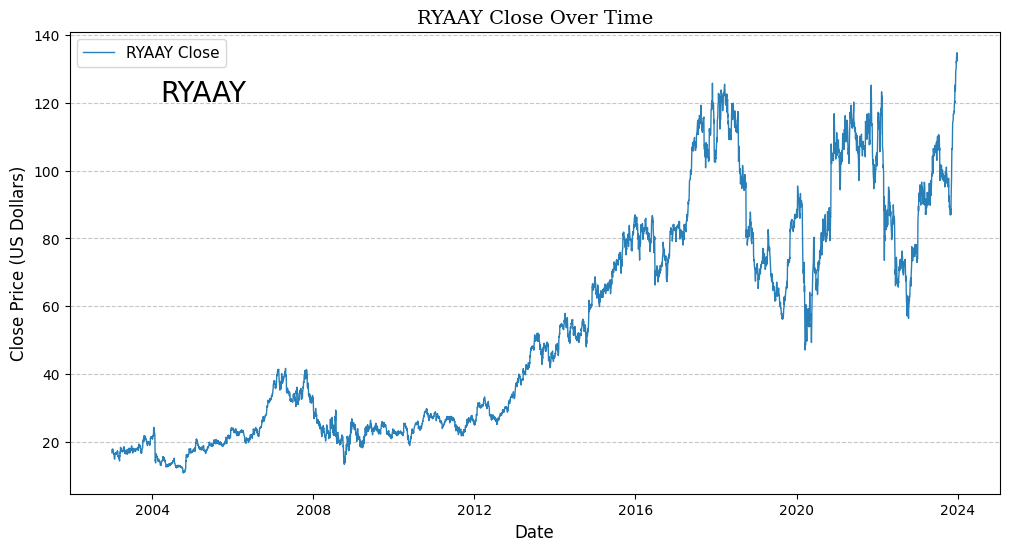
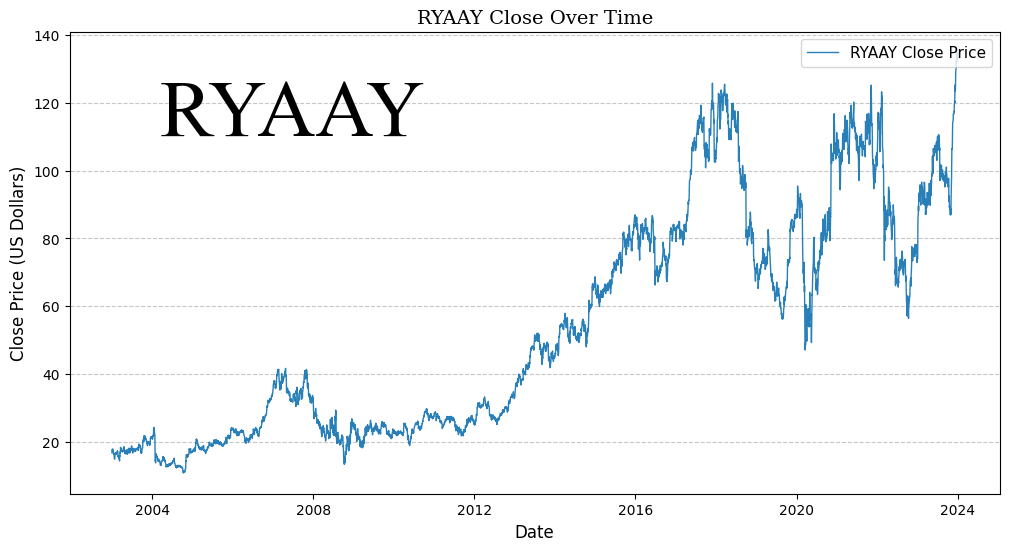
RYAAY close price plot

Changed region(s): [[0.0614, 0.0617, 0.4301, 0.2468], [0.7988, 0.0617, 0.9832, 0.1234]]

diff --git a/Plot_Trading_days_data.py b/Plot_Trading_days_data.py
@@ -94,12 +94,12 @@ plt.tick_params(axis='both', which='major', labelsize=10)
 #plt.show()
 
 plt.figure(figsize=(12, 6))
-plt.plot(datetime_objs, trading_days_data['Close'], label='RYAAY Close', color='#2980b9', linewidth=1)
+plt.plot(datetime_objs, trading_days_data['Close'], label='RYAAY Close Price', color='#2980b9', linewidth=1)
 title = "RYAAY"
-plt.text(datetime_objs[300], plt.ylim()[1] * 0.9, title, fontsize=20, ha='left', va='top')
-plt.title('RYAAY Close Over Time', fontsize=14, fontfamily='serif')
+plt.text(datetime_objs[300], plt.ylim()[1] * 0.9, title, fontsize=58, ha='left', va='top', fontname='Times New Roman')
+plt.title('RYAAY Close Price Over Time', fontsize=14, fontfamily='serif')
 plt.gca().xaxis.set_major_formatter(mdates.DateFormatter('%Y'))
-plt.legend(fontsize=11, loc='upper left')
+plt.legend(fontsize=11, loc='upper right')
 plt.xlabel('Date', fontsize=12)
 plt.ylabel('Close Price (US Dollars)', fontsize=12)
 plt.grid(axis='y', linestyle='--', alpha=0.7)
